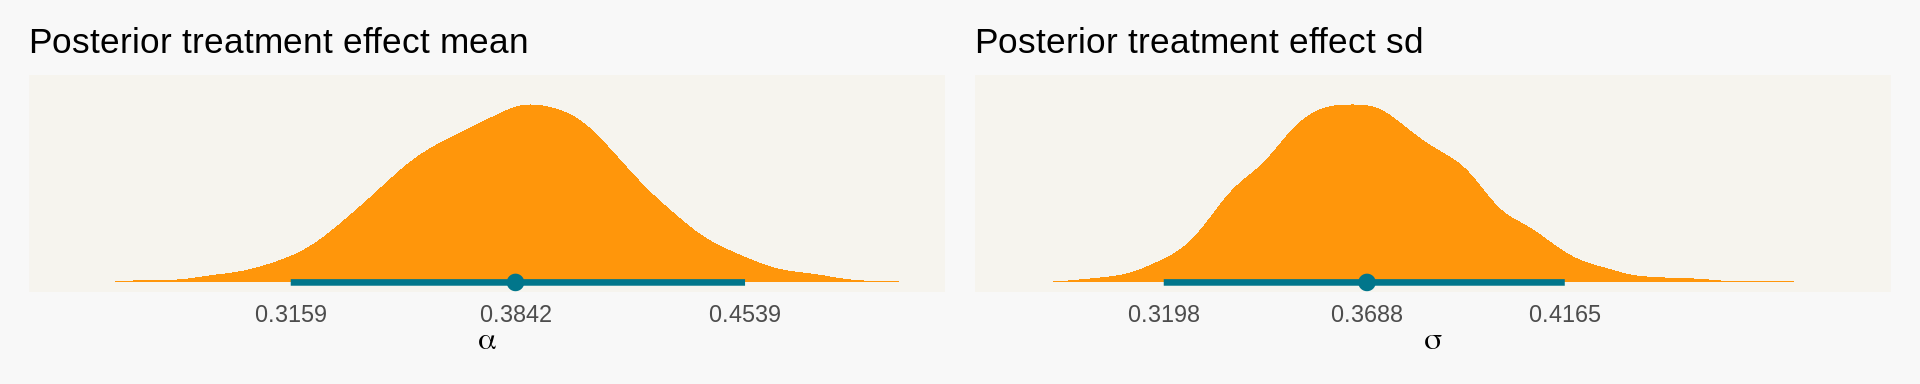
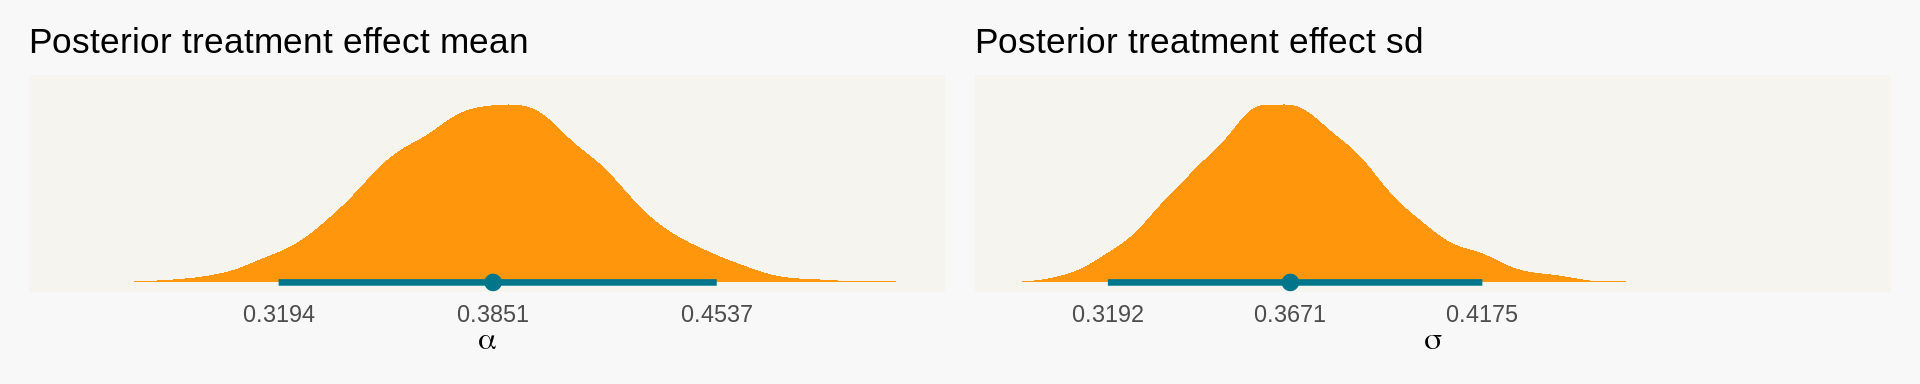
few fixes to bullets

diff --git a/content/post/embracing_uncertainty.html b/content/post/embracing_uncertainty.html
@@ -9,7 +9,7 @@ tags: ["R", "Bayesian", "Statistics"]
 
 
 
-<p>One of my favorite things about being a data scientist is running experiments. Often, data science teams will run a lot of repeated and related experiments about the same general thing - Usually, because we only have some short window to learn something or some other constraints. We run experiments to recover an <em>effect size</em> for something we care about. When the experiment is over, we have typically measured an effect size with some <em>uncertainty</em> (like a standard error) about this measurement. The data and results repeated experiments generate are probably applicable to each other, but how do we take advantage of that?</p>
+<p>One of my favorite things about being a data scientist is running experiments. Often, data science teams will run a lot of experiments that aim to measure the same thing - Usually because we only have some short window to learn something or some other constraints. The purpose of most experiments is to recover an <em>effect size</em> for something we care about. When the experiment is over, we have typically measured this effect size with some <em>uncertainty</em> (like a standard error) about this measurement. The data and results repeated experiments generate are probably applicable to each other, but how do we take advantage of that?</p>
 <p>When you repeat studies, there are three ways of looking at it.</p>
 <ol style="list-style-type: decimal">
 <li>Each of the studies are perfectly identical to each other.</li>
@@ -19,7 +19,7 @@ tags: ["R", "Bayesian", "Statistics"]
 <p>This third possibility takes the middle road between 1 and 2 and is the pragmatic approach that we’ll talk about in this blog post. We’ll use Bayesian hierarchical regressions to perform a meta analysis on a group of studies to determine what the true underlying effect was that those studies were trying to measure.</p>
 <div id="preliminaries" class="section level1">
 <h1>Preliminaries</h1>
-<p>This post is targeted at folks who already have an understanding of bayesian statistics. Throughout, I’ll use <a href="https://mc-stan.org/">Stan</a> as my primary modeling tool. There is a lot you can do to make your Stan code more efficient but this post shoots for interpretability. To learn more about Bayesian Statistics and Stan, I highly recommend Richard’s book <a href="https://xcelab.net/rm/statistical-rethinking/">Statistical Rethinking</a> and the wonderful documentation on the Stan website.</p>
+<p>This post is targeted at folks who already have an understanding of bayesian statistics. Throughout, I’ll use <a href="https://mc-stan.org/">Stan</a> as my primary modeling tool. There is a lot you can do to make your Stan code more efficient but this post shoots for interpretability. To learn more about Bayesian Statistics and Stan, start with my blog post <a href="https://www.rishisadhir.com/2020/02/08/intro-to-bayes-part-1/">here</a>. I also highly recommend Richard’s book <a href="https://xcelab.net/rm/statistical-rethinking/">Statistical Rethinking</a> and the wonderful documentation on the Stan website.</p>
 <pre class="r"><code># Interface with Stan
 library(rstan)
 # Helpers for working with Stan
@@ -187,11 +187,11 @@ fit_meta_pooled</code></pre>
 ## post-warmup draws per chain=1000, total post-warmup draws=4000.
 ## 
 ##        mean se_mean   sd  2.5%   25%   50%   75% 97.5% n_eff Rhat
-## alpha  0.38    0.00 0.04  0.31  0.36  0.39  0.41  0.45  3584    1
-## sigma  0.37    0.00 0.03  0.32  0.35  0.37  0.39  0.42  3049    1
-## lp__  54.97    0.02 1.03 52.22 54.60 55.27 55.69 55.97  1784    1
+## alpha  0.39    0.00 0.03  0.32  0.36  0.39  0.41  0.45  3456    1
+## sigma  0.37    0.00 0.03  0.32  0.35  0.37  0.38  0.42  2987    1
+## lp__  55.00    0.02 1.00 52.33 54.60 55.32 55.71 55.97  1632    1
 ## 
-## Samples were drawn using NUTS(diag_e) at Fri Feb 28 22:27:23 2020.
+## Samples were drawn using NUTS(diag_e) at Fri Feb 28 22:32:05 2020.
 ## For each parameter, n_eff is a crude measure of effective sample size,
 ## and Rhat is the potential scale reduction factor on split chains (at 
 ## convergence, Rhat=1).</code></pre>
@@ -556,11 +556,13 @@ tibble(&quot;sigma study&quot; = post_sigmas$sigma_a,
 <blockquote>
 <p>The way these different methods are presented (regression, meta-analysis, ANOVA, …), it is quite easy for a beginner, like me, to lose sight of the forest for the trees. I also feel that this is a general experience for students of applied statistics: Every experiment, situation, and question results in a different statistical method (or worse: “Which test should I use?”), and the student doesn’t see how the methods relate to each other. So I think focusing on the (regression) model is key, but often overlooked in favor of this sort of decision tree model of choosing statistical methods - McElreath, 2016, p.2</p>
 </blockquote>
-<p>Further advice for aspiring data scientists:
-1. You should consider adding hierarchical regression to your toolset. There are Bayesian and frequentist analogues so don’t feel like you need to go Bayesian to learn it.
-2. Focus on learning generalized version of your toolkit instead of use case specific tooling.
-3. Consider your whole data generating process when analyzing data. Take advantage of measurement error and propagate it to your downstream analyses.
-4. You can aggregate data in clever ways. If we had subject level data for each of our studies, we might still consider aggregating to the study to reduce computational complexity while not destroying sample size information via measurement error modeling.</p>
+<p>Further advice for aspiring data scientists:</p>
+<ol style="list-style-type: decimal">
+<li>You should consider adding hierarchical regression to your toolset. There are Bayesian and frequentist analogues so don’t feel like you need to go Bayesian to learn it.</li>
+<li>Focus on learning generalized version of your toolkit instead of use case specific tooling.</li>
+<li>Consider your whole data generating process when analyzing data. Take advantage of measurement error and propagate it to your downstream analyses.</li>
+<li>You can aggregate data in clever ways. If we had subject level data for each of our studies, we might still consider aggregating to the study to reduce computational complexity while not destroying sample size information via measurement error modeling.</li>
+</ol>
 </div>
 <div id="references" class="section level1">
 <h1>References</h1>

diff --git a/public/2020/02/28/embracing-uncertainty/index.html b/public/2020/02/28/embracing-uncertainty/index.html
@@ -75,7 +75,7 @@
       
 
 
-<p>One of my favorite things about being a data scientist is running experiments. Often, data science teams will run a lot of repeated and related experiments about the same general thing - Usually, because we only have some short window to learn something or some other constraints. We run experiments to recover an <em>effect size</em> for something we care about. When the experiment is over, we have typically measured an effect size with some <em>uncertainty</em> (like a standard error) about this measurement. The data and results repeated experiments generate are probably applicable to each other, but how do we take advantage of that?</p>
+<p>One of my favorite things about being a data scientist is running experiments. Often, data science teams will run a lot of experiments that aim to measure the same thing - Usually because we only have some short window to learn something or some other constraints. The purpose of most experiments is to recover an <em>effect size</em> for something we care about. When the experiment is over, we have typically measured this effect size with some <em>uncertainty</em> (like a standard error) about this measurement. The data and results repeated experiments generate are probably applicable to each other, but how do we take advantage of that?</p>
 <p>When you repeat studies, there are three ways of looking at it.</p>
 <ol style="list-style-type: decimal">
 <li>Each of the studies are perfectly identical to each other.</li>
@@ -85,7 +85,7 @@
 <p>This third possibility takes the middle road between 1 and 2 and is the pragmatic approach that we’ll talk about in this blog post. We’ll use Bayesian hierarchical regressions to perform a meta analysis on a group of studies to determine what the true underlying effect was that those studies were trying to measure.</p>
 <div id="preliminaries" class="section level1">
 <h1>Preliminaries</h1>
-<p>This post is targeted at folks who already have an understanding of bayesian statistics. Throughout, I’ll use <a href="https://mc-stan.org/">Stan</a> as my primary modeling tool. There is a lot you can do to make your Stan code more efficient but this post shoots for interpretability. To learn more about Bayesian Statistics and Stan, I highly recommend Richard’s book <a href="https://xcelab.net/rm/statistical-rethinking/">Statistical Rethinking</a> and the wonderful documentation on the Stan website.</p>
+<p>This post is targeted at folks who already have an understanding of bayesian statistics. Throughout, I’ll use <a href="https://mc-stan.org/">Stan</a> as my primary modeling tool. There is a lot you can do to make your Stan code more efficient but this post shoots for interpretability. To learn more about Bayesian Statistics and Stan, start with my blog post <a href="https://www.rishisadhir.com/2020/02/08/intro-to-bayes-part-1/">here</a>. I also highly recommend Richard’s book <a href="https://xcelab.net/rm/statistical-rethinking/">Statistical Rethinking</a> and the wonderful documentation on the Stan website.</p>
 <pre class="r"><code># Interface with Stan
 library(rstan)
 # Helpers for working with Stan
@@ -253,11 +253,11 @@ fit_meta_pooled</code></pre>
 ## post-warmup draws per chain=1000, total post-warmup draws=4000.
 ## 
 ##        mean se_mean   sd  2.5%   25%   50%   75% 97.5% n_eff Rhat
-## alpha  0.38    0.00 0.04  0.31  0.36  0.39  0.41  0.45  3584    1
-## sigma  0.37    0.00 0.03  0.32  0.35  0.37  0.39  0.42  3049    1
-## lp__  54.97    0.02 1.03 52.22 54.60 55.27 55.69 55.97  1784    1
+## alpha  0.39    0.00 0.03  0.32  0.36  0.39  0.41  0.45  3456    1
+## sigma  0.37    0.00 0.03  0.32  0.35  0.37  0.38  0.42  2987    1
+## lp__  55.00    0.02 1.00 52.33 54.60 55.32 55.71 55.97  1632    1
 ## 
-## Samples were drawn using NUTS(diag_e) at Fri Feb 28 22:27:23 2020.
+## Samples were drawn using NUTS(diag_e) at Fri Feb 28 22:32:05 2020.
 ## For each parameter, n_eff is a crude measure of effective sample size,
 ## and Rhat is the potential scale reduction factor on split chains (at 
 ## convergence, Rhat=1).</code></pre>
@@ -622,11 +622,13 @@ tibble(&quot;sigma study&quot; = post_sigmas$sigma_a,
 <blockquote>
 <p>The way these different methods are presented (regression, meta-analysis, ANOVA, …), it is quite easy for a beginner, like me, to lose sight of the forest for the trees. I also feel that this is a general experience for students of applied statistics: Every experiment, situation, and question results in a different statistical method (or worse: “Which test should I use?”), and the student doesn’t see how the methods relate to each other. So I think focusing on the (regression) model is key, but often overlooked in favor of this sort of decision tree model of choosing statistical methods - McElreath, 2016, p.2</p>
 </blockquote>
-<p>Further advice for aspiring data scientists:
-1. You should consider adding hierarchical regression to your toolset. There are Bayesian and frequentist analogues so don’t feel like you need to go Bayesian to learn it.
-2. Focus on learning generalized version of your toolkit instead of use case specific tooling.
-3. Consider your whole data generating process when analyzing data. Take advantage of measurement error and propagate it to your downstream analyses.
-4. You can aggregate data in clever ways. If we had subject level data for each of our studies, we might still consider aggregating to the study to reduce computational complexity while not destroying sample size information via measurement error modeling.</p>
+<p>Further advice for aspiring data scientists:</p>
+<ol style="list-style-type: decimal">
+<li>You should consider adding hierarchical regression to your toolset. There are Bayesian and frequentist analogues so don’t feel like you need to go Bayesian to learn it.</li>
+<li>Focus on learning generalized version of your toolkit instead of use case specific tooling.</li>
+<li>Consider your whole data generating process when analyzing data. Take advantage of measurement error and propagate it to your downstream analyses.</li>
+<li>You can aggregate data in clever ways. If we had subject level data for each of our studies, we might still consider aggregating to the study to reduce computational complexity while not destroying sample size information via measurement error modeling.</li>
+</ol>
 </div>
 <div id="references" class="section level1">
 <h1>References</h1>

diff --git a/content/post/Bayesian_tea_and_oxen.html b/content/post/Bayesian_tea_and_oxen.html
@@ -21,7 +21,7 @@ categories:
 <p>As enforcers, we think observing children drinking tea will give us some information on whether or not they stabled their Ox. We also don’t want to check every single child because we associate some personal cost to the embarrasment we’d feel if we were wrong. We need a model to help us reason about all this.</p>
 <div id="preliminaries" class="section level1">
 <h1>Preliminaries</h1>
-<p>This post is targeted at folks who already have an understanding of bayesian statistics. Throughout, I’ll use <a href="https://mc-stan.org/">Stan</a> as my primary modeling tool. There is a lot you can do to make your Stan code more efficient but this post shoots for interpretability. To learn more about Bayesian Statistics and Stan, I highly recommend Richard’s book <a href="https://xcelab.net/rm/statistical-rethinking/">Statistical Rethinking</a> and the wonderful documentation on the Stan website.</p>
+<p>This post is targeted at folks who already have an understanding of bayesian statistics. Throughout, I’ll use <a href="https://mc-stan.org/">Stan</a> as my primary modeling tool. There is a lot you can do to make your Stan code more efficient but this post shoots for interpretability. To learn more about Bayesian Statistics and Stan, start with my blog post <a href="https://www.rishisadhir.com/2020/02/08/intro-to-bayes-part-1/">here</a>. I also highly recommend Richard’s book <a href="https://xcelab.net/rm/statistical-rethinking/">Statistical Rethinking</a> and the wonderful documentation on the Stan website.</p>
 <pre class="r"><code># Interface with Stan
 library(rstan)
 # Helpers for working with Stan
@@ -198,7 +198,7 @@ print(stan_fit, probs = c(.05, .95))</code></pre>
 ## sigma     0.74    0.00 0.05   0.66   0.81  2024    1
 ## lp__    -79.89    0.03 1.22 -82.32 -78.54  1409    1
 ## 
-## Samples were drawn using NUTS(diag_e) at Sun Feb 23 18:54:44 2020.
+## Samples were drawn using NUTS(diag_e) at Fri Feb 28 22:33:46 2020.
 ## For each parameter, n_eff is a crude measure of effective sample size,
 ## and Rhat is the potential scale reduction factor on split chains (at 
 ## convergence, Rhat=1).</code></pre>

diff --git a/public/2020/02/01/tea-oxen-and-discrete-parameters/index.html b/public/2020/02/01/tea-oxen-and-discrete-parameters/index.html
@@ -82,7 +82,7 @@
 <p>As enforcers, we think observing children drinking tea will give us some information on whether or not they stabled their Ox. We also don’t want to check every single child because we associate some personal cost to the embarrasment we’d feel if we were wrong. We need a model to help us reason about all this.</p>
 <div id="preliminaries" class="section level1">
 <h1>Preliminaries</h1>
-<p>This post is targeted at folks who already have an understanding of bayesian statistics. Throughout, I’ll use <a href="https://mc-stan.org/">Stan</a> as my primary modeling tool. There is a lot you can do to make your Stan code more efficient but this post shoots for interpretability. To learn more about Bayesian Statistics and Stan, I highly recommend Richard’s book <a href="https://xcelab.net/rm/statistical-rethinking/">Statistical Rethinking</a> and the wonderful documentation on the Stan website.</p>
+<p>This post is targeted at folks who already have an understanding of bayesian statistics. Throughout, I’ll use <a href="https://mc-stan.org/">Stan</a> as my primary modeling tool. There is a lot you can do to make your Stan code more efficient but this post shoots for interpretability. To learn more about Bayesian Statistics and Stan, start with my blog post <a href="https://www.rishisadhir.com/2020/02/08/intro-to-bayes-part-1/">here</a>. I also highly recommend Richard’s book <a href="https://xcelab.net/rm/statistical-rethinking/">Statistical Rethinking</a> and the wonderful documentation on the Stan website.</p>
 <pre class="r"><code># Interface with Stan
 library(rstan)
 # Helpers for working with Stan
@@ -259,7 +259,7 @@ print(stan_fit, probs = c(.05, .95))</code></pre>
 ## sigma     0.74    0.00 0.05   0.66   0.81  2024    1
 ## lp__    -79.89    0.03 1.22 -82.32 -78.54  1409    1
 ## 
-## Samples were drawn using NUTS(diag_e) at Sun Feb 23 18:54:44 2020.
+## Samples were drawn using NUTS(diag_e) at Fri Feb 28 22:33:46 2020.
 ## For each parameter, n_eff is a crude measure of effective sample size,
 ## and Rhat is the potential scale reduction factor on split chains (at 
 ## convergence, Rhat=1).</code></pre>
